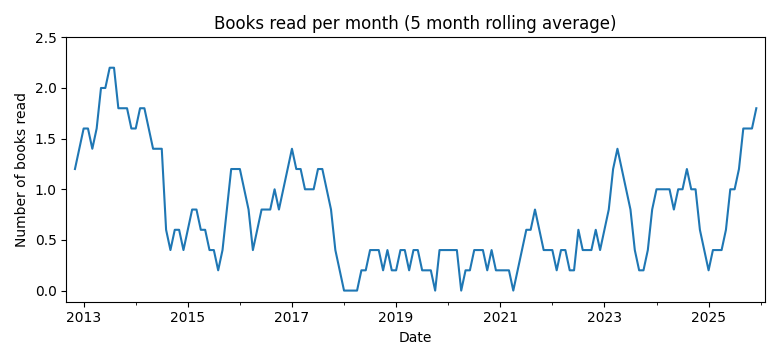
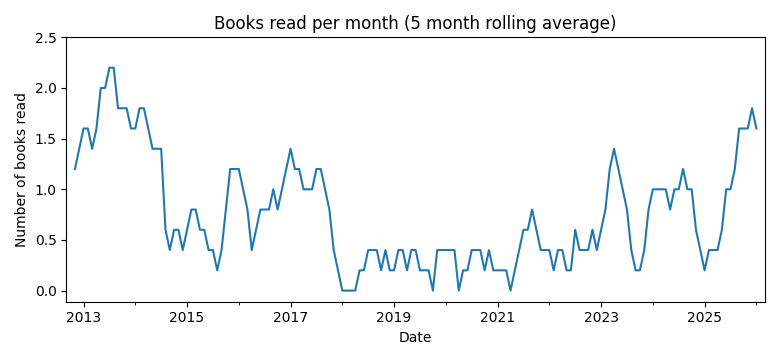
Betrayer

diff --git a/README.md b/README.md
@@ -3,13 +3,16 @@
 I started this log on October 30th, 2012. I list all books I read.  
 
 ### Statistics
-Total number of books read: 124  
-Books per month: 0.77 (2012/9 to 2026/2)
+Total number of books read: 125  
+Books per month: 0.77 (2012/9 to 2026/3)
 
 ![Books recorded by year](book_recorded.png)
 ![Books read per month](book_read.png)
 
 ### List of books
+*Betrayer (Horus Heresy 24)*, Aaron Dembski-Bowden  
+Finished: 2026.03.02
+
 *Know No Fear (Horus Heresy 19)*, Dan Abnett  
 Finished: 2026.02.19
 
